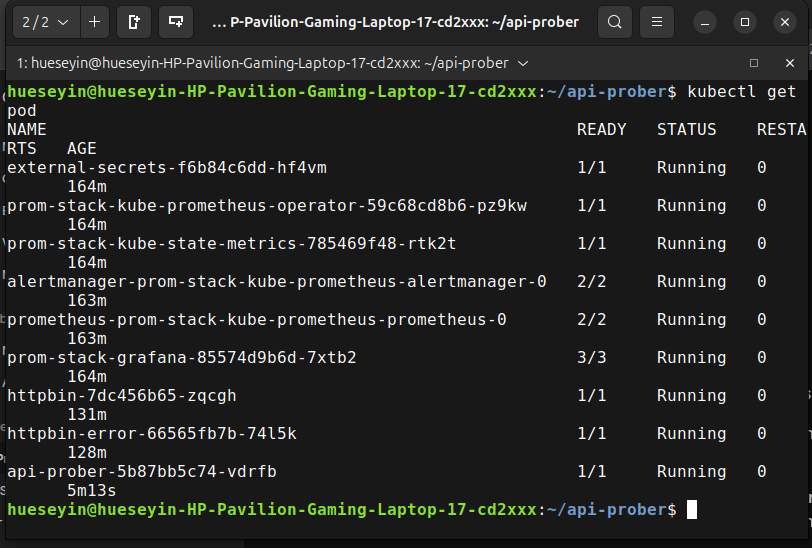
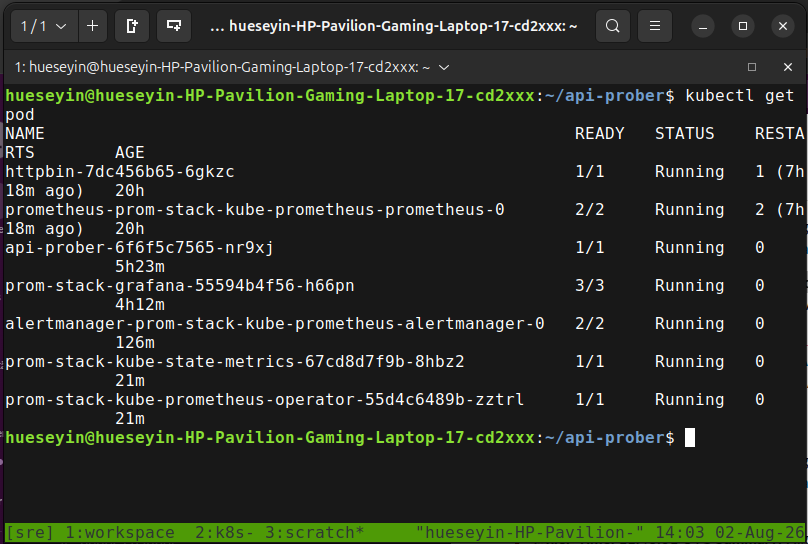
docs & config: update multi-channel alerting, helm setup, and assets

diff --git a/README.md b/README.md
@@ -25,6 +25,9 @@ A cloud-native, platform-independent SRE telemetry stack written in Go. This pro
 - **GitOps Continuous Delivery:** Fully automated deployment, sync, and self-healing managed declaratively via Argo CD.
 - **Declarative Telemetry Stack:** Pre-configured Prometheus monitoring, Grafana sidecars, and Alertmanager routing via `prom-stack-values.yaml`.
 - **Graceful Shutdown:** Listens for termination signals (`SIGINT`, `SIGTERM`) to cleanly shut down without dropping in-flight probes.
+- **Multi-Channel Alert Routing:** Dynamic Alertmanager routing featuring dual-channel notification delivery:
+  - **Slack:** Full audit trail and ChatOps visibility for all alert states (`warning`, `critical`, `RESOLVED`).
+  - **Pushover:** High-priority mobile push notifications (bypassing hardware silent switches via Priority 1) for `critical` incidents.
 
 ---
 
@@ -34,7 +37,7 @@ A cloud-native, platform-independent SRE telemetry stack written in Go. This pro
 - **Kubernetes:** Dynamic service discovery utilizing Kubernetes Informers.
 - **Argo CD:** GitOps controller executing continuous delivery and automated cluster state synchronization.
 - **Prometheus & Grafana:** Full observability stack measuring the 4 Golden Signals.
-- **Alertmanager & Pushover:** Real-time mobile alert notifications triggered by defined threshold violations.
+- **Alertmanager:** Production-ready alert routing with severity classification (`warning`, `critical`).
 
 ---
 
@@ -45,15 +48,15 @@ The `api-prober` microservice acts as the central observability engine, continuo
 ```text
 [ K8s API Server ] --(Informer)--> [ api-prober ] --(HTTP/DNS Probes)--> [ Target Services ]
                                      |
-                           (Prometheus Metrics)
+                            (Prometheus Metrics)
                                      v
                                [ Prometheus ]
                                      |
-                                 (Alert Rules)
+                                (Alert Rules)
                                      v
                                [ Alertmanager ]
                                      |
-                                 (Pushover API)
+                          (Webhooks / PagerDuty / Slack)
                                      v
                                [ SRE On-Call ]
 ```
@@ -142,38 +145,24 @@ Once background port-forwarding is active (`make forward-all`), access the Contr
 | ![Argo](assets/argo.png) | ![Prometheus](assets/prometheus.png) |
 
 | Grafana 4 Golden Signals Dashboard | Structured Slog Output |
-|f :---: | :---: |
+| :---: | :---: |
 | ![Grafana Dashboard](assets/grafana-dashboard.png) | ![Slog Output](assets/slog-output.png) |
 
 ---
 
 ## Alerting & Escalation
 
-Real-time notifications are managed via Prometheus Alertmanager based on thresholds of the 4 Golden Signals.
+Real-time telemetry evaluation is managed via Prometheus Alertmanager based on defined thresholds for the 4 Golden Signals. Alerts are pre-classified by severity (`warning` vs. `critical`) and can be seamlessly routed to Webhooks, PagerDuty, Opsgenie, or Slack.
 
-### Emergency Priority (iOS Silent Mode Bypass)
+### Simulating Alerts
 
-Alerts are pre-configured to escalate critical issues. To ensure critical operational alerts break through your phone's silent switch or "Do Not Disturb" focus modes:
+The setup allows you to simulate threshold violations for different Golden Signals out of the box:
 
-1. Open **Settings** on your iOS device.
-2. Navigate to **Pushover** -> **Notifications**.
-3. Enable **Allow Critical Alerts**.
+#### 1. High Latency Alert
 
-| Latency Threshold Alert | High Error Rate Escalation |
-| :---: | :---: |
-| ![Pushover 1](assets/pushover1.png) | ![Pushover 2](assets/pushover2.png) |
+The Helm chart automatically provisions a target called `httpbin-slow` which simulates delayed responses (`/delay/1`). Once Prometheus evaluates the high p99 latency threshold over the defined timeframe, Alertmanager triggers the `HighLatency` rule.
 
----
-
-## Simulating Alerts
-
-The setup allows you to simulate alerts for different Golden Signals:
-
-### 1. High Latency Alert
-
-The Helm chart automatically provisions a target called `httpbin-slow` which simulates delayed responses (`/delay/1`). Once Prometheus evaluates the high p99 latency threshold over the defined timeframe, Alertmanager will push a notification to your configured Pushover device.
-
-### 2. High Error Rate Alert (Dynamic Discovery & Error Target Simulation)
+#### 2. High Error Rate Alert (Dynamic Discovery & Error Target Simulation)
 
 You can trigger a real-time HTTP 500 error alert using the Makefile:
 
@@ -185,10 +174,10 @@ make test-alert
 make test-alert-clean
 ```
 
-The Go engine will dynamically pick up the new endpoint within 5 seconds and start probing it. Shortly after, the `HighErrorRate` rule will fire in Prometheus and escalate to Alertmanager.
+The Go engine will dynamically discover the new endpoint via Kubernetes API labels within 5 seconds and start probing it. Shortly after, the HighErrorRate rule fires in Prometheus and escalates to Alertmanager.
 
----
+### Multi-Channel Alert Routing Matrix
 
-## License
-
-[MIT License](https://opensource.org/licenses/MIT)
+| Slack Audit Trail (`#alerts`) | Pushover Lockscreen Alert | Pushover Detailed View |
+| :---: | :---: | :---: |
+| ![Slack Alert](assets/slack.png) | ![Pushover Push](assets/pushover1.png) | ![Pushover Detail](assets/pushover2.png) |
